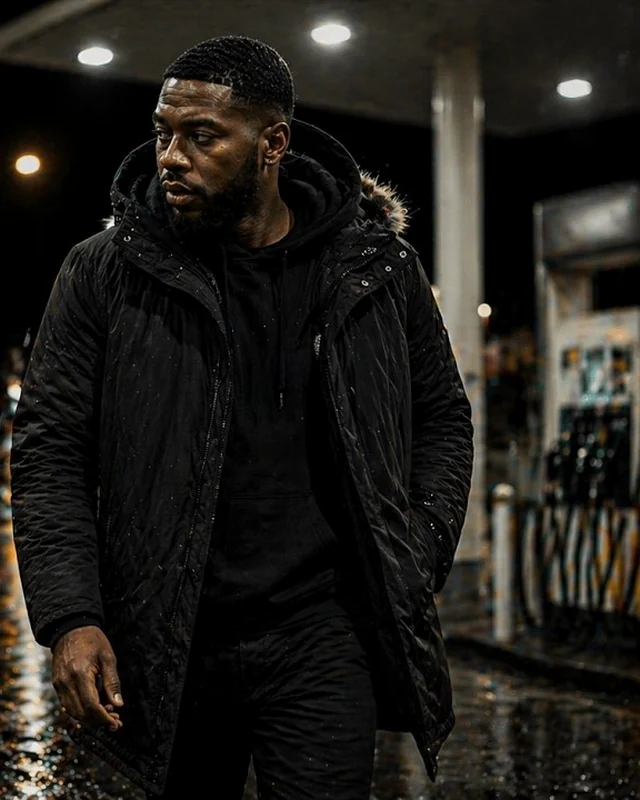
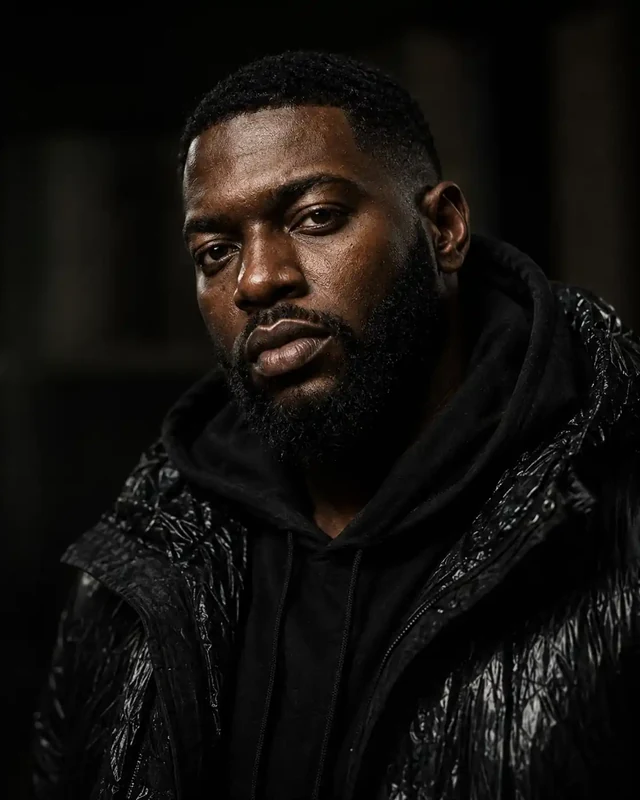
Replace Reiss artwork with approved human portrait
Use the approved human-looking Reiss portrait across his profile, homepage featured card and full artist roster. Add responsive WebP variants and cache refreshes while preserving his catalogue, album and one-click playback.

diff --git a/artists/reiss/index.html b/artists/reiss/index.html
@@ -10,12 +10,12 @@
   <meta property="og:title" content="Reiss | NextGen Sessions">
   <meta property="og:description" content="Focused UK rap, official releases and the Nothing Given album.">
   <meta property="og:url" content="https://nextgensessions.com/artists/reiss/">
-  <meta property="og:image" content="https://nextgensessions.com/assets/artists/reiss-portrait.webp?v=20260803-reiss1">
+  <meta property="og:image" content="https://nextgensessions.com/assets/artists/reiss-portrait.webp?v=20260803-reiss2">
   <meta property="og:image:alt" content="Reiss portrait">
   <meta name="twitter:card" content="summary_large_image">
   <meta name="twitter:title" content="Reiss | NextGen Sessions">
   <meta name="twitter:description" content="Explore Reiss and Nothing Given.">
-  <meta name="twitter:image" content="https://nextgensessions.com/assets/artists/reiss-portrait.webp?v=20260803-reiss1">
+  <meta name="twitter:image" content="https://nextgensessions.com/assets/artists/reiss-portrait.webp?v=20260803-reiss2">
   <meta name="theme-color" content="#080808">
   <link rel="icon" type="image/svg+xml" href="/assets/nextgen-favicon.svg">
   <link rel="apple-touch-icon" href="/assets/apple-touch-icon.png">
@@ -23,17 +23,17 @@
   <link rel="preconnect" href="https://i.ytimg.com">
   <link rel="stylesheet" href="/styles.css">
   <link rel="stylesheet" href="/artist-profile.css">
-  <script type="application/ld+json">{"@context":"https://schema.org","@type":"MusicGroup","name":"Reiss","genre":"UK Rap","url":"https://nextgensessions.com/artists/reiss/","image":"https://nextgensessions.com/assets/artists/reiss-portrait.webp?v=20260803-reiss1","album":{"@type":"MusicAlbum","name":"Nothing Given","url":"https://www.youtube.com/watch?v=ULjYMdDHySM"},"subjectOf":[{"@type":"MusicVideoObject","name":"On Route","url":"https://www.youtube.com/watch?v=Dvfg251n0Pk"},{"@type":"MusicVideoObject","name":"On A Regular","url":"https://www.youtube.com/watch?v=FvNsYb5g4pg"},{"@type":"MusicVideoObject","name":"Already Know","url":"https://www.youtube.com/watch?v=hqMBHn0L_DM"},{"@type":"MusicVideoObject","name":"No Comment","url":"https://www.youtube.com/watch?v=vsvn0Qkifv0"}],"memberOf":{"@type":"Organization","name":"NextGen Sessions","url":"https://nextgensessions.com/"}}</script>
+  <script type="application/ld+json">{"@context":"https://schema.org","@type":"MusicGroup","name":"Reiss","genre":"UK Rap","url":"https://nextgensessions.com/artists/reiss/","image":"https://nextgensessions.com/assets/artists/reiss-portrait.webp?v=20260803-reiss2","album":{"@type":"MusicAlbum","name":"Nothing Given","url":"https://www.youtube.com/watch?v=ULjYMdDHySM"},"subjectOf":[{"@type":"MusicVideoObject","name":"On Route","url":"https://www.youtube.com/watch?v=Dvfg251n0Pk"},{"@type":"MusicVideoObject","name":"On A Regular","url":"https://www.youtube.com/watch?v=FvNsYb5g4pg"},{"@type":"MusicVideoObject","name":"Already Know","url":"https://www.youtube.com/watch?v=hqMBHn0L_DM"},{"@type":"MusicVideoObject","name":"No Comment","url":"https://www.youtube.com/watch?v=vsvn0Qkifv0"}],"memberOf":{"@type":"Organization","name":"NextGen Sessions","url":"https://nextgensessions.com/"}}</script>
 </head>
 <body>
   <a class="skip-link" href="#artistProfile">Skip to artist profile</a>
   <header class="site-header"><div class="header-inner"><a class="brand" href="/" aria-label="NextGen Sessions home"><img src="/assets/nextgen-wordmark.webp" width="1000" height="425" alt="NextGen Sessions"></a><nav class="nav" aria-label="Primary navigation"><a href="/#featured-artists">Featured</a><a href="/artists/">Roster</a><a href="/releases/">Releases</a><a href="/mixes/">Mixes</a><a href="/#about">About</a><a class="nav-cta" href="https://www.youtube.com/@NextGenSessions" target="_blank" rel="noopener">YouTube</a></nav></div></header>
   <main class="profile-main" id="artistProfile" data-artist="reiss"><section class="profile-error"><p class="eyebrow">Loading artist profile</p><h1>Reiss</h1></section></main>
   <footer class="site-footer"><div class="footer-inner"><div>© 2026 NextGen Sessions. Original music and independent artists.</div><div class="footer-links"><a href="/">Home</a><a href="/artists/">Artists</a><a href="/releases/">Releases</a><a href="/mixes/">Mixes</a><a href="https://www.youtube.com/@NextGenSessions" target="_blank" rel="noopener">YouTube</a></div></div></footer>
-  <script src="/artist-images.js?v=20260803-reiss1" defer></script>
+  <script src="/artist-images.js?v=20260803-reiss2" defer></script>
   <script src="/artist-profiles.js" defer></script>
-  <script src="/artist-profiles-expanded.js?v=20260803-reiss1" defer></script>
+  <script src="/artist-profiles-expanded.js?v=20260803-reiss2" defer></script>
   <script src="/artist-profile.js?v=20260803-autoplay1" defer></script>
-  <script src="/artist-albums.js?v=20260803-reiss1" defer></script>
+  <script src="/artist-albums.js?v=20260803-reiss2" defer></script>
 </body>
 </html>

diff --git a/index.html b/index.html
@@ -27,5 +27,5 @@
 <section class="section" id="submit" aria-labelledby="submit-title"><div class="submit-banner"><div><p class="eyebrow">Artist submissions</p><h2 id="submit-title">Think your music fits?</h2><p>Send one private listening link, your genre, location and a concise artist introduction. We review submissions that align with the sound and presentation of NextGen Sessions.</p></div><a class="button button-primary" href="/submit.html">Submission details</a></div></section>
 </main>
 <footer class="site-footer"><div class="footer-inner"><div>© 2026 NextGen Sessions. Original music and independent artists.</div><div class="footer-links"><a href="/artists/">Artists</a><a href="/releases/">Releases</a><a href="/mixes/">Mixes</a><a href="https://www.youtube.com/@NextGenSessions" target="_blank" rel="noopener">YouTube</a><a href="https://www.tiktok.com/@nextgensessions" target="_blank" rel="noopener">TikTok</a><a href="https://www.instagram.com/next.gensessions/" target="_blank" rel="noopener">Instagram</a><a href="mailto:billz_rida_37er@yahoo.co.uk">Contact</a></div></div></footer>
-<script src="/artists.js" defer></script><script src="/artist-images.js?v=20260803-reiss1" defer></script><script src="/artist-profiles.js" defer></script><script src="/artist-profiles-expanded.js?v=20260803-reiss1" defer></script><script src="/site.js" defer></script>
+<script src="/artists.js" defer></script><script src="/artist-images.js?v=20260803-reiss2" defer></script><script src="/artist-profiles.js" defer></script><script src="/artist-profiles-expanded.js?v=20260803-reiss2" defer></script><script src="/site.js" defer></script>
 </body></html>

diff --git a/artists/index.html b/artists/index.html
@@ -23,5 +23,5 @@
   </section>
 </main>
 <footer class="site-footer"><div class="footer-inner"><div>© 2026 NextGen Sessions. Original music and independent artists.</div><div class="footer-links"><a href="/">Home</a><a href="/submit.html">Submit music</a><a href="https://www.youtube.com/@NextGenSessions" target="_blank" rel="noopener">YouTube</a><a href="https://www.instagram.com/next.gensessions/" target="_blank" rel="noopener">Instagram</a></div></div></footer>
-<script src="/artists.js" defer></script><script src="/artist-images.js?v=20260803-reiss1" defer></script><script src="/artist-profiles.js" defer></script><script src="/artist-profiles-expanded.js?v=20260803-reiss1" defer></script><script src="/site.js" defer></script>
+<script src="/artists.js" defer></script><script src="/artist-images.js?v=20260803-reiss2" defer></script><script src="/artist-profiles.js" defer></script><script src="/artist-profiles-expanded.js?v=20260803-reiss2" defer></script><script src="/site.js" defer></script>
 </body></html>

diff --git a/artist-images.js b/artist-images.js
@@ -61,10 +61,10 @@ window.NGS_ARTIST_IMAGES = {
     position: "50% 42%"
   },
   "reiss": {
-    src: "/assets/artists/reiss-card.webp?v=20260803-reiss1",
-    srcset: "/assets/artists/reiss-card-640.webp?v=20260803-reiss1 640w, /assets/artists/reiss-card.webp?v=20260803-reiss1 1024w",
-    portrait: "/assets/artists/reiss-portrait.webp?v=20260803-reiss1",
-    fallback: "/assets/artists/reiss-card-640.webp?v=20260803-reiss1",
+    src: "/assets/artists/reiss-card.webp?v=20260803-reiss1&portrait=human3",
+    srcset: "/assets/artists/reiss-card-640.webp?v=20260803-reiss1&portrait=human3 640w, /assets/artists/reiss-card.webp?v=20260803-reiss1&portrait=human3 1024w",
+    portrait: "/assets/artists/reiss-portrait.webp?v=20260803-reiss1&portrait=human3",
+    fallback: "/assets/artists/reiss-card-640.webp?v=20260803-reiss1&portrait=human3",
     position: "50% 32%"
   },
   "alonzo-ray": {
